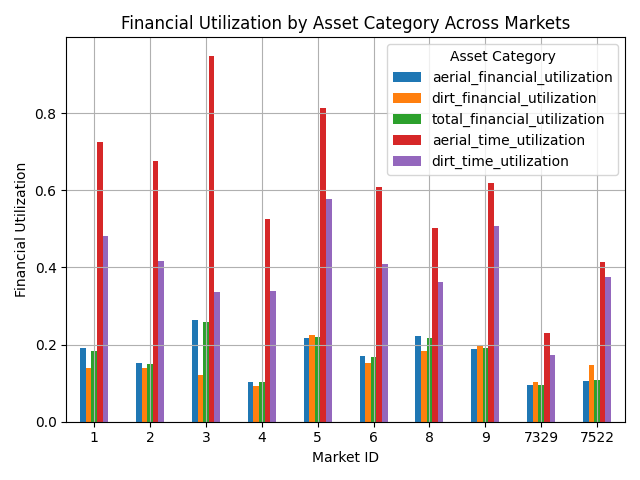
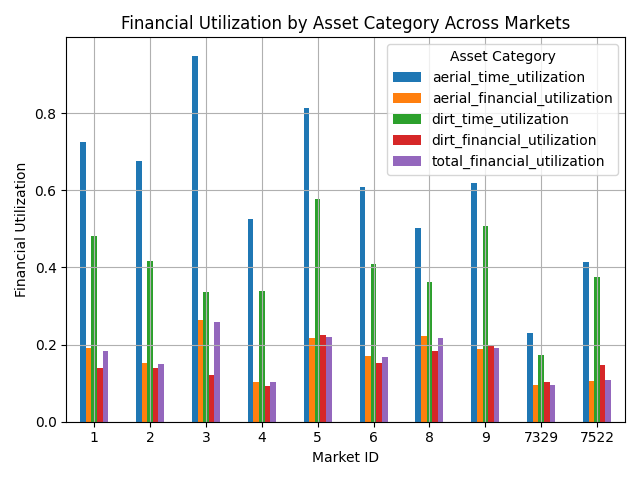
Update from 7/17

diff --git a/scripts/describe.py b/scripts/describe.py
@@ -4,6 +4,8 @@ import os
 import matplotlib.pyplot as plt
 from tabulate import tabulate
 import statsmodels.api as sm
+import seaborn as sns
+from scipy.stats import norm
 
 """Step 1 - Read the excel file and load the data sheets into separate dataframes"""
 # specify path to excel source file in project folder
@@ -111,7 +113,29 @@ market_utilization_df = market_utilization_df[['market_id','aerial_financial_uti
 market_utilization_df['aerial_time_utilization'] = time_utilization_by_equipment_class['Aerial']
 market_utilization_df['dirt_time_utilization'] = time_utilization_by_equipment_class['Dirt']
 
+util_order = ['market_id','aerial_time_utilization','aerial_financial_utilization','dirt_time_utilization','dirt_financial_utilization','total_financial_utilization']
+
+market_utilization_df = market_utilization_df[util_order]
+
 market_utilization_df.to_excel('../data/market_utilization_df.xlsx', index=False)
+
+# calculate the cdf of the market utilization metrics
+market_utilization_cdf = market_utilization_df.copy()
+for column in market_utilization_cdf.columns[1:]:
+    market_utilization_cdf[column] = norm.cdf(market_utilization_cdf[column], market_utilization_cdf[column].mean(), market_utilization_cdf[column].std())
+
+# set the index of the cdf dataframe
+market_utilization_cdf.set_index('market_id', inplace=True)
+
+# create a heatmap of the cdf dataframe
+plt.figure(figsize=(10,10))
+sns.heatmap(market_utilization_cdf, cmap='RdYlGn', annot=True, fmt=".2f")
+plt.title('Heatmap of Normally Distributed Utilization Metrics')
+plt.xlabel('Utilization Metrics')
+plt.ylabel('Market ID')
+plt.tight_layout()
+plt.show()
+
 
 # plot the merged dataframe
 market_utilization_df.plot(kind='bar', x='market_id')
